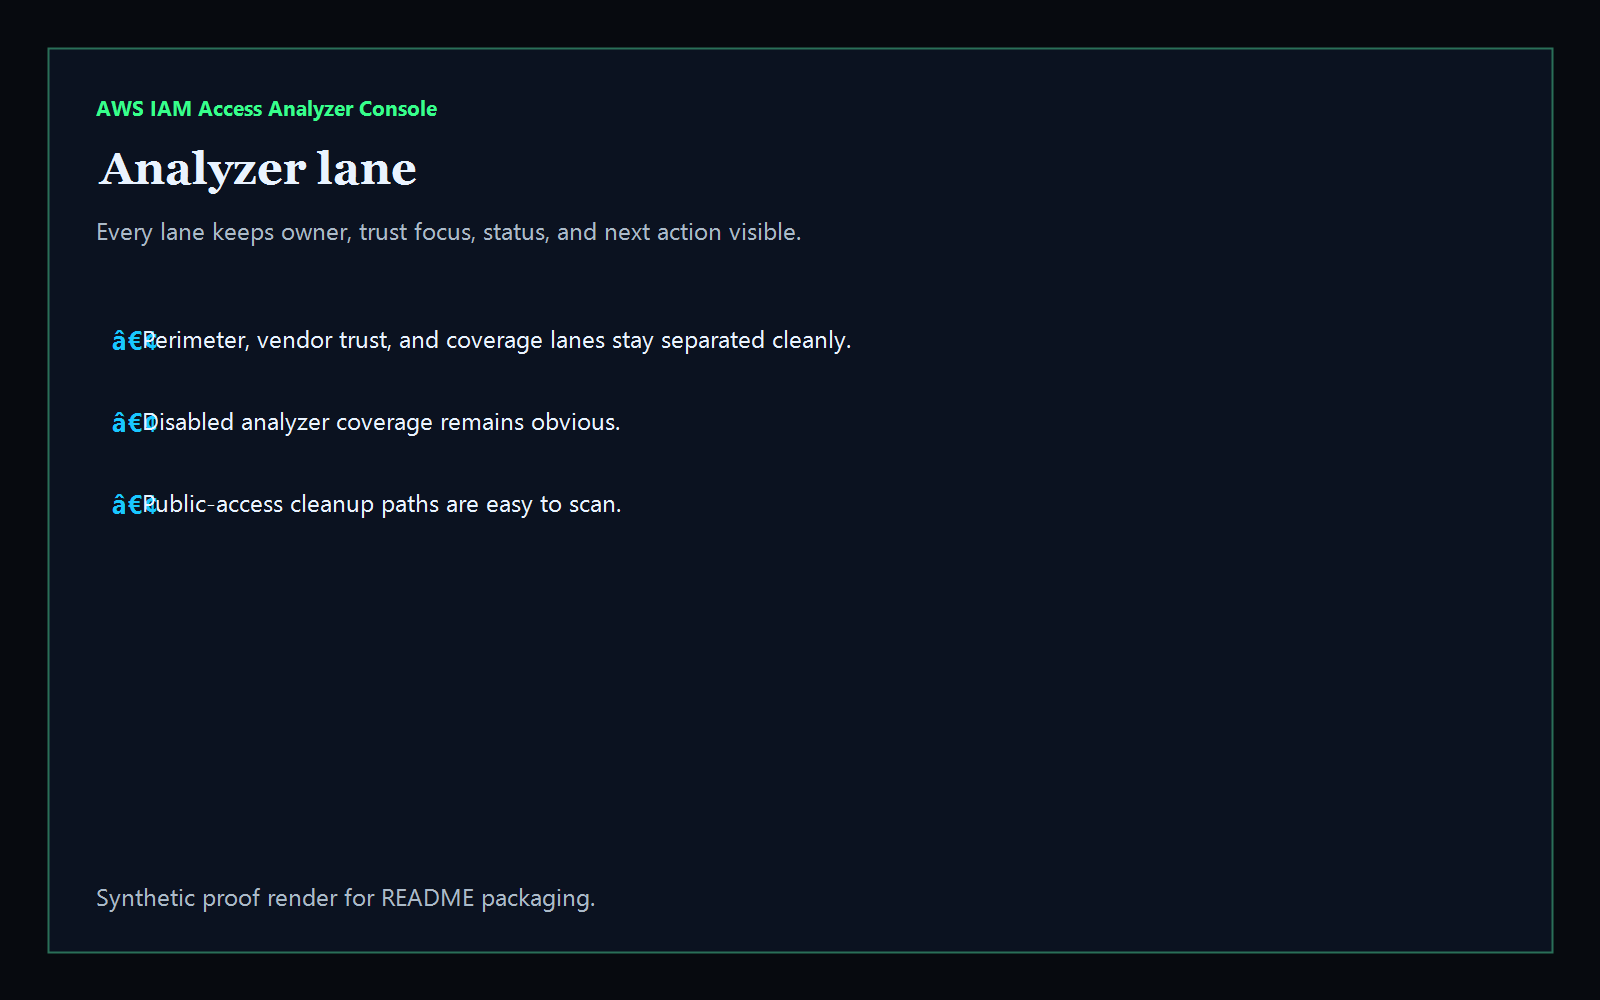
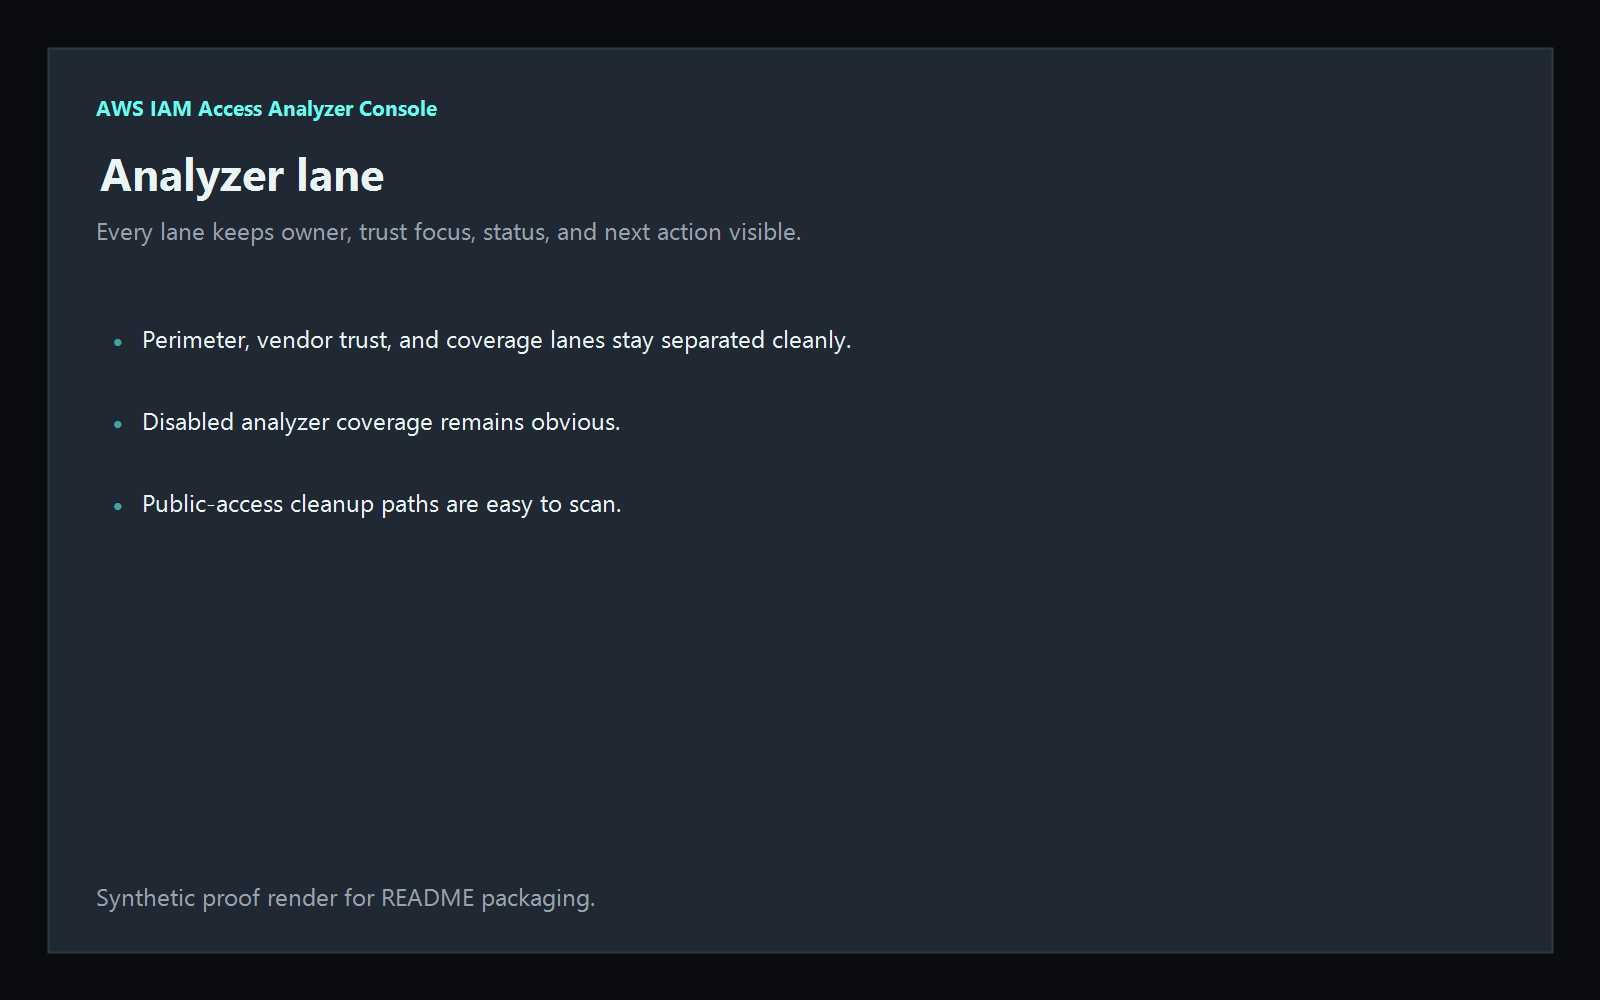
Converge surface onto BERT dark-cyan, clear all 6 npm advisories
Broken:
- Surface ran a green-tinted near-black palette (#070a0f ground, #37ff8b accent)
  that matched neither kineticgain.com nor suite.kineticgain.com. The mismatch was
  visible switching between tabs.
- --bg, --panel and --panel2 were dead tokens with zero var() references. The real
  ground came from a hardcoded gradient, so body computed background-color resolved
  to transparent rather than --bg. 30 of 45 color literals bypassed the token block.
- npm audit reported 6 advisories (4 high, 2 low). The CI gate at ci.yml:24 exited 1.
- README proof PNGs carried a third copy of the retired palette, a serif Georgia
  heading (estate rule bans serif headings), and a mojibake bullet glyph from
  reading a BOM-less UTF-8 file under Windows PowerShell 5.1.

Changed, src/services/render.ts:
- :root remapped onto canonical BERT dark-cyan. Token names left alone so every
  existing rule repaints without restructuring. Added --head and --on-accent.
- body now sets background-color:var(--bg) separately from background-image. That
  removes the hardcoded #05070c/#070a0f gradient and revives the dead --bg token
  in one change.
- All 10 panel surfaces use var(--panel)/var(--panel2) instead of translucent
  rgba(11,18,32,*). Opaque panels make contrast deterministic instead of dependent
  on whatever shows through.
- .st status pills and inline code pinned to background:var(--bg). Both render on
  the page ground and inside .pcard. Unpinned, --bad at 10px measured 4.24:1 against
[…]

diff --git a/src/services/render.ts b/src/services/render.ts
@@ -27,12 +27,16 @@ function layout(title: string, active: string, body: string) {
     <title>${title}</title>
     <link rel="icon" href="/favicon.svg" />
     <style>
+      /* Kinetic Gain BERT dark-cyan. Shared with kineticgain.com + suite.kineticgain.com.
+         Token names are unchanged; only the values moved. --plum is retained as a token
+         name but now resolves to the cyan accent: BERT has no violet, and a sixth hue
+         read as off-palette next to the rest of the estate. */
       :root{
-        --bg:#070a0f; --panel:#0b1220; --panel2:#0a1426;
-        --line:rgba(120,255,170,.18); --line2:rgba(120,255,170,.10);
-        --text:#e9f3ff; --muted:rgba(233,243,255,.72); --muted2:rgba(233,243,255,.55);
-        --bert:#37ff8b; --bert2:#19c7ff;
-        --warn:#ffcc66; --bad:#ff5c7a; --good:#37ff8b; --plum:#b88cff;
+        --bg:#0B0C10; --panel:#1F2833; --panel2:#161D26;
+        --line:#2B3A46; --line2:rgba(43,58,70,.55);
+        --text:#C5C6C7; --head:#EAF6F5; --muted:#99A3AD; --muted2:#8C98A2;
+        --bert:#66FCF1; --bert2:#45A29E; --on-accent:#0F172A;
+        --warn:#E0A43A; --bad:#F2495C; --good:#4ADE80; --plum:#66FCF1;
         --shadow: 0 18px 60px rgba(0,0,0,.55);
         --mono: ui-monospace, SFMono-Regular, Menlo, Monaco, Consolas, "Liberation Mono", "Courier New", monospace;
         --sans: ui-sans-serif, system-ui, -apple-system, Segoe UI, Roboto, Helvetica, Arial, "Apple Color Emoji", "Segoe UI Emoji";
@@ -41,18 +45,21 @@ function layout(title: string, active: string, body: string) {
       html,body{height:100%}
       body{
         margin:0; font-family:var(--sans); color:var(--text);
-        background:
-          radial-gradient(1200px 600px at 20% -10%, rgba(55,255,139,.18), transparent 60%),
-          radial-gradient(900px 520px at 90% 0%, rgba(25,199,255,.16), transparent 55%),
-          radial-gradient(1000px 600px at 50% 110%, rgba(55,255,139,.10), transparent 60%),
-          linear-gradient(180deg, #05070c 0%, #070a0f 35%, #05070c 100%);
+        /* background-color is set separately so computed background-color resolves to
+           --bg instead of transparent. The old shorthand ended in a gradient IMAGE,
+           which left --bg dead and the real ground hardcoded. */
+        background-color: var(--bg);
+        background-image:
+          radial-gradient(1200px 600px at 20% -10%, rgba(102,252,241,.05), transparent 60%),
+          radial-gradient(900px 520px at 90% 0%, rgba(69,162,158,.05), transparent 55%),
+          radial-gradient(1000px 600px at 50% 110%, rgba(102,252,241,.04), transparent 60%);
         overflow-x:hidden;
       }
       .grid-bg{
         position:fixed; inset:0; pointer-events:none; opacity:.12; z-index:-1;
         background-image:
-          linear-gradient(to right, rgba(55,255,139,.14) 1px, transparent 1px),
-          linear-gradient(to bottom, rgba(55,255,139,.10) 1px, transparent 1px);
+          linear-gradient(to right, rgba(102,252,241,.10) 1px, transparent 1px),
+          linear-gradient(to bottom, rgba(102,252,241,.07) 1px, transparent 1px);
         background-size: 46px 46px;
         mask-image: radial-gradient(900px 600px at 40% 10%, #000 60%, transparent 100%);
       }
@@ -69,31 +76,31 @@ function layout(title: string, active: string, body: string) {
       .herorow{display:grid; grid-template-columns: 1.5fr .9fr; gap:18px}
       @media (max-width:1000px){.herorow{grid-template-columns:1fr}}
       .hero{
-        background: linear-gradient(180deg, rgba(11,18,32,.95), rgba(8,14,26,.92));
+        background: linear-gradient(180deg, var(--panel), var(--panel2));
         border:1px solid var(--line); border-radius:22px; padding:28px 28px 24px;
         box-shadow: var(--shadow); position:relative; overflow:hidden;
         border-top:2px solid var(--bert2);
       }
-      .hero h1{ font-size:64px; line-height:.95; margin:0 0 18px; letter-spacing:-.5px; font-weight:800; }
+      .hero h1{ font-size:64px; line-height:.95; margin:0 0 18px; letter-spacing:-.5px; font-weight:800; color:var(--head); }
       @media (max-width:700px){.hero h1{font-size:42px}}
       .hero p{color:var(--muted); font-size:15px; line-height:1.55; max-width:680px; margin:0 0 18px}
       .chiprow{display:flex; flex-wrap:wrap; gap:8px}
       .meta-chip{
         font-family:var(--mono); font-size:11px; color:var(--muted);
         padding:7px 12px; border-radius:999px; border:1px solid var(--line);
-        background:rgba(6,10,18,.4);
+        background:rgba(11,12,16,.55);
       }
       .navrow{display:flex; flex-wrap:wrap; gap:10px; margin-top:18px}
       .navchip{
         font-family:var(--mono); font-size:12px; color:var(--muted);
         padding:10px 14px; border-radius:999px; border:1px solid var(--line);
-        background:rgba(6,10,18,.4); text-decoration:none;
+        background:rgba(11,12,16,.55); text-decoration:none;
       }
-      .navchip.active{color:#071017;background:linear-gradient(135deg,var(--bert),var(--bert2));font-weight:700}
+      .navchip.active{color:var(--on-accent);background:linear-gradient(135deg,var(--bert),var(--bert2));font-weight:700}
       .side{display:flex; flex-direction:column; gap:14px}
       .bluf{
         border:1px solid var(--warn); border-left:4px solid var(--warn);
-        background: linear-gradient(180deg, rgba(255,204,102,.06), rgba(11,18,32,.92));
+        background: linear-gradient(180deg, rgba(224,164,58,.08), var(--panel));
         border-radius:14px; padding:16px 18px;
       }
       .bluf .lbl, .corr .lbl{font-family:var(--mono); font-size:10px; letter-spacing:.18em; text-transform:uppercase}
@@ -101,7 +108,7 @@ function layout(title: string, active: string, body: string) {
       .bluf p, .corr p{color:var(--muted); font-size:13.5px; line-height:1.55; margin:6px 0 0}
       .corr{
         border:1px solid var(--bert); border-left:4px solid var(--bert);
-        background: linear-gradient(180deg, rgba(55,255,139,.06), rgba(11,18,32,.92));
+        background: linear-gradient(180deg, rgba(102,252,241,.08), var(--panel));
         border-radius:14px; padding:16px 18px;
       }
       .section{margin-top:34px}
@@ -109,14 +116,14 @@ function layout(title: string, active: string, body: string) {
         display:flex; justify-content:space-between; align-items:baseline; gap:14px;
         padding-bottom:10px; border-bottom:1px solid var(--line2); margin-bottom:14px;
       }
-      .sh h2{margin:0; font-size:24px; font-weight:600; letter-spacing:-.2px}
+      .sh h2{margin:0; font-size:24px; font-weight:600; letter-spacing:-.2px; color:var(--head)}
       .sh .note{font-family:var(--mono); font-size:11px; color:var(--muted2); letter-spacing:.16em; text-transform:uppercase}
       .kpis{display:grid; grid-template-columns: repeat(6, 1fr); gap:12px}
       @media (max-width:1100px){.kpis{grid-template-columns: repeat(3, 1fr)}}
       @media (max-width:640px){.kpis{grid-template-columns: repeat(2, 1fr)}}
       .kpi{
         border:1px solid var(--line); border-radius:14px; padding:14px 14px 12px;
-        background: linear-gradient(180deg, rgba(11,18,32,.85), rgba(8,14,26,.65));
+        background: linear-gradient(180deg, var(--panel), var(--panel2));
         position:relative; overflow:hidden;
       }
       .kpi .v{font-family:var(--mono); font-size:26px; font-weight:600; letter-spacing:-.5px}
@@ -128,10 +135,10 @@ function layout(title: string, active: string, body: string) {
       @media (max-width:640px){.stack{grid-template-columns: 1fr}}
       .src{
         border:1px solid var(--line); border-radius:16px; padding:16px;
-        background: linear-gradient(180deg, rgba(11,18,32,.85), rgba(8,14,26,.65));
+        background: linear-gradient(180deg, var(--panel), var(--panel2));
       }
       .src .src-name{font-family:var(--mono); font-size:11px; color:var(--bert); letter-spacing:.2em; text-transform:uppercase}
-      .src .src-tit{margin:8px 0 6px; font-size:17px; font-weight:600}
+      .src .src-tit{margin:8px 0 6px; font-size:17px; font-weight:600; color:var(--head)}
       .src p{margin:0; font-size:13px; color:var(--muted); line-height:1.55}
       .ttbl{
         width:100%; border-collapse:separate; border-spacing:0;
@@ -140,35 +147,40 @@ function layout(title: string, active: string, body: string) {
       .ttbl th, .ttbl td{padding:13px 14px; text-align:left; font-size:13.5px; vertical-align:top}
       .ttbl thead th{
         font-family:var(--mono); font-size:11px; letter-spacing:.16em; text-transform:uppercase;
-        color:var(--muted2); border-bottom:1px solid var(--line); background:rgba(11,18,32,.5);
+        color:var(--muted2); border-bottom:1px solid var(--line); background:var(--panel2);
       }
-      .ttbl tbody tr:hover{background:rgba(55,255,139,.03)}
+      .ttbl tbody tr:hover{background:rgba(102,252,241,.04)}
       .ttbl td, .ttbl td *{color:var(--muted)}
       .ttbl b{color:var(--text)}
-      .st{font-family:var(--mono); font-size:10px; padding:4px 9px; border-radius:6px; letter-spacing:.1em; text-transform:uppercase; border:1px solid currentColor; display:inline-block}
+      /* Opaque --bg fill: .st renders BOTH in .ttbl td (page ground) and inside .pcard
+         (lighter panel). Pinning the pill background makes its contrast independent of
+         the container, which is what keeps --bad #F2495C above 4.5:1 at 10px. */
+      .st{font-family:var(--mono); font-size:10px; padding:4px 9px; border-radius:6px; letter-spacing:.1em; text-transform:uppercase; border:1px solid currentColor; display:inline-block; background:var(--bg)}
       .st.red{color:var(--bad)} .st.yellow{color:var(--warn)} .st.green{color:var(--good)} .st.info{color:var(--bert2)}
       .board{display:grid; grid-template-columns: repeat(3,1fr); gap:14px}
       @media (max-width:1000px){.board{grid-template-columns: 1fr}}
       .pcard{
         border:1px solid var(--line); border-radius:16px; padding:18px 20px;
-        background: linear-gradient(180deg, rgba(11,18,32,.85), rgba(8,14,26,.65));
+        background: linear-gradient(180deg, var(--panel), var(--panel2));
         display:flex; flex-direction:column;
       }
       .pcard .ptop{display:flex; justify-content:space-between; align-items:center; margin-bottom:8px}
       .pcard .pnum{font-family:var(--mono); font-size:22px; font-weight:600; color:var(--bert)}
-      .pcard .ppri{font-family:var(--mono); font-size:10px; padding:5px 10px; border-radius:999px; border:1px solid var(--line); color:var(--bert); letter-spacing:.14em; background:rgba(55,255,139,.06)}
-      .pcard h3{margin:6px 0 8px; font-size:19px; font-weight:600}
+      .pcard .ppri{font-family:var(--mono); font-size:10px; padding:5px 10px; border-radius:999px; border:1px solid var(--line); color:var(--bert); letter-spacing:.14em; background:rgba(102,252,241,.08)}
+      .pcard h3{margin:6px 0 8px; font-size:19px; font-weight:600; color:var(--head)}
       .pcard .pdesc{font-size:13.5px; color:var(--muted); line-height:1.55; margin:0 0 14px}
       .pcard ul.check{list-style:none; padding:0; margin:0 0 14px}
       .pcard ul.check li{display:grid; grid-template-columns: 18px 1fr; gap:10px; padding:6px 0; font-size:13.5px; color:var(--muted); line-height:1.45}
-      .pcard ul.check li:before{content:""; width:14px; height:14px; border:1px solid var(--line); border-radius:3px; background:rgba(6,10,18,.4); margin-top:3px;}
+      .pcard ul.check li:before{content:""; width:14px; height:14px; border:1px solid var(--line); border-radius:3px; background:rgba(11,12,16,.55); margin-top:3px;}
       .footer{
         margin-top:30px; padding-top:14px; border-top:1px dashed var(--line2);
         display:flex; justify-content:space-between; gap:10px; flex-wrap:wrap;
         font-family:var(--mono); font-size:11px; color:var(--muted2); letter-spacing:.08em;
       }
       a{color:inherit}
-      code{font-family:var(--mono); font-size:12px; color:var(--bert2); background:rgba(25,199,255,.08); padding:1px 6px; border-radius:5px; border:1px solid rgba(25,199,255,.18);}
+      /* Same reason as .st: inline code sits on both the page ground and on panels.
+         A teal-tinted fill lifted the panel case to 4.24:1, under AA. --bg pins it. */
+      code{font-family:var(--mono); font-size:12px; color:var(--bert2); background:var(--bg); padding:1px 6px; border-radius:5px; border:1px solid rgba(69,162,158,.30);}
     </style>
     <script type="application/ld+json">
       {
